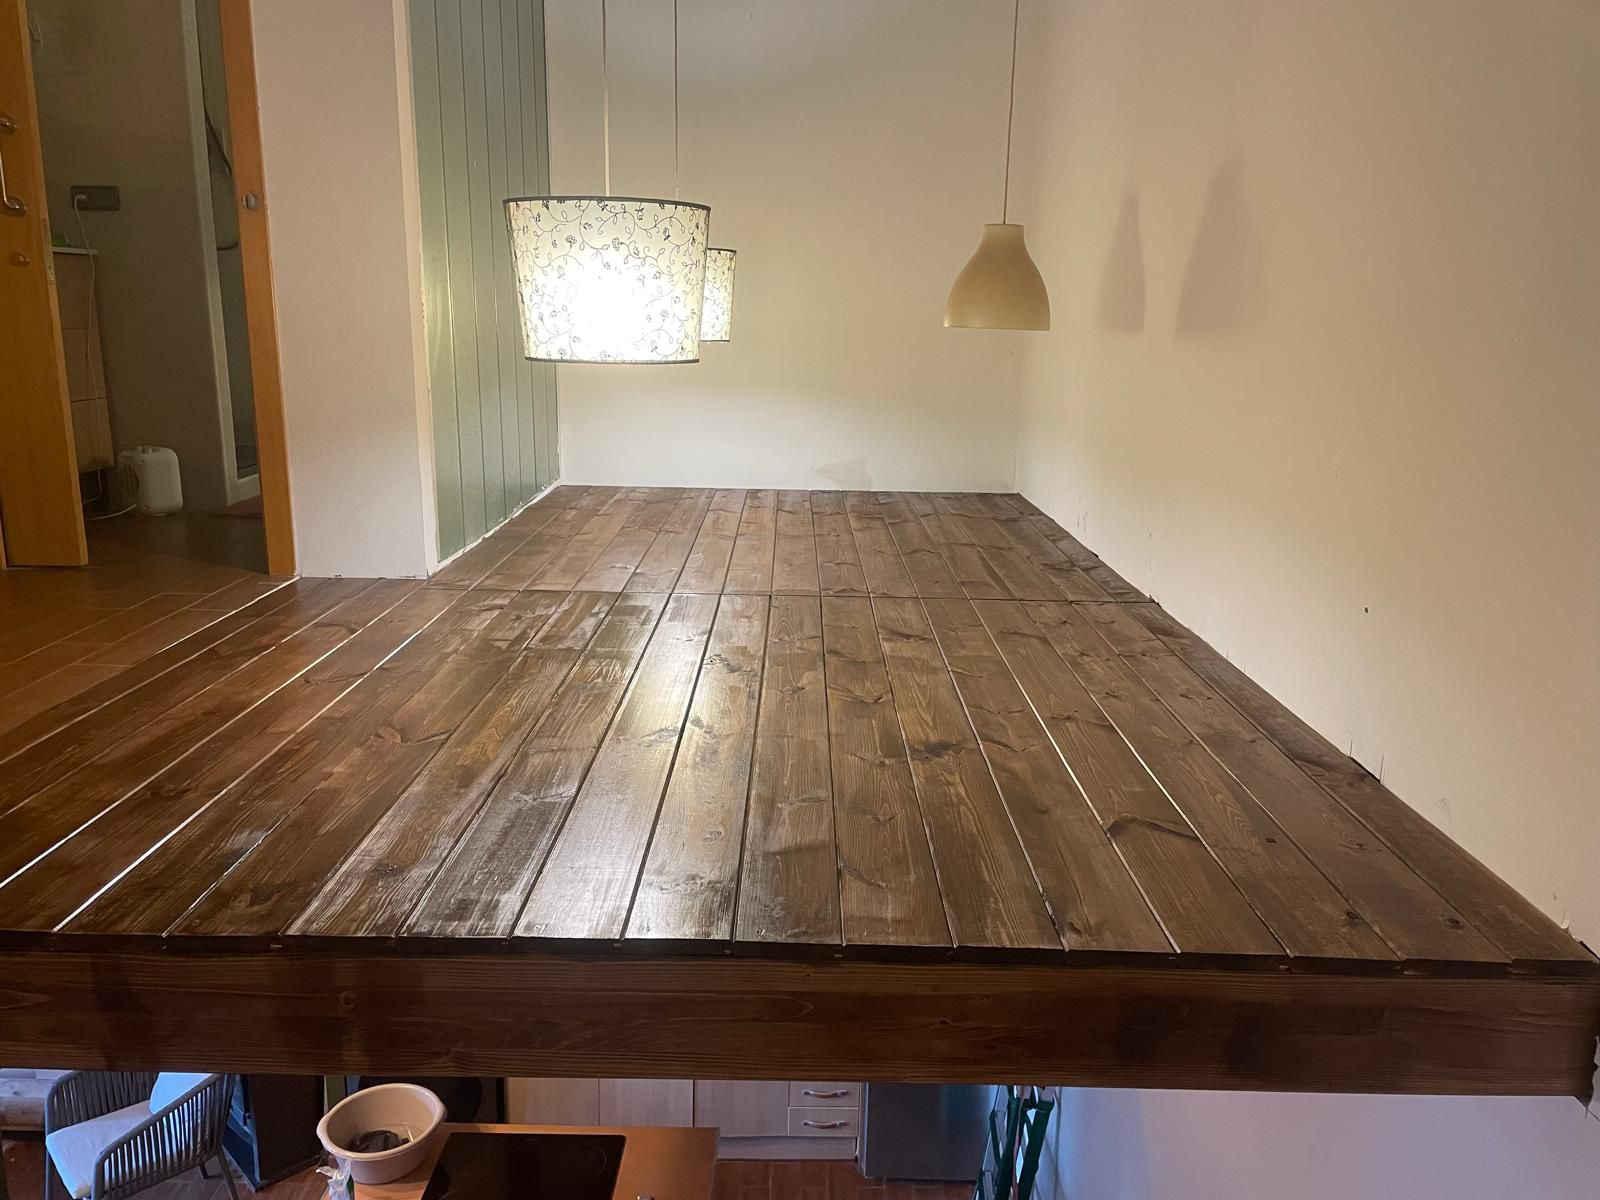
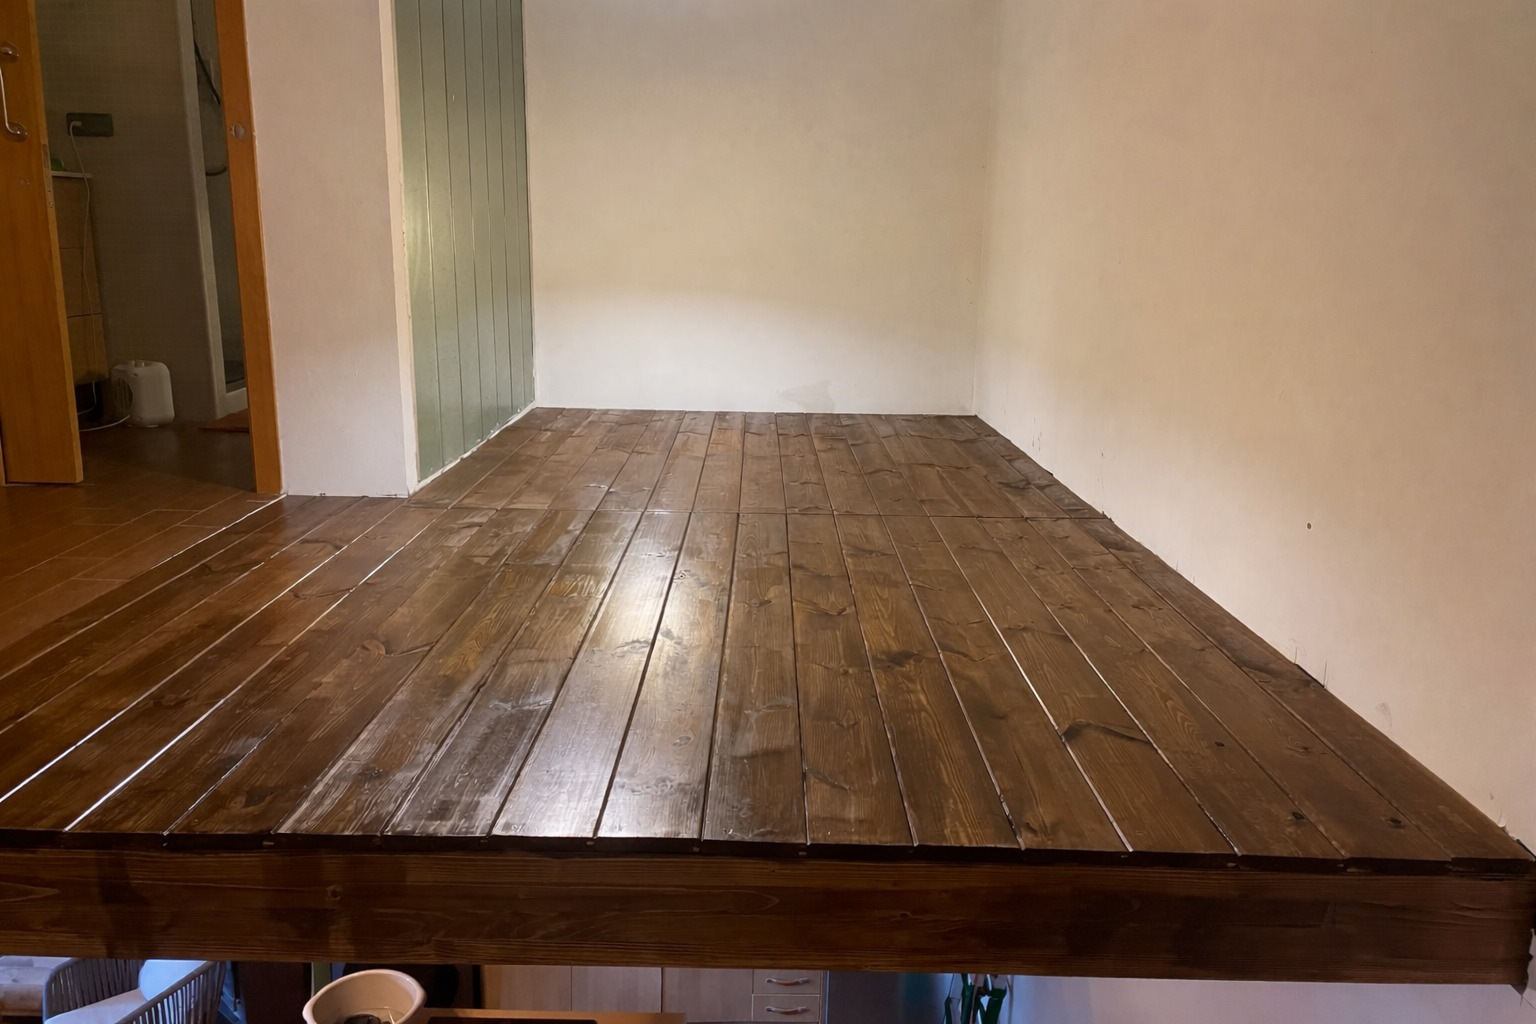
Actualizó fotos de gallery: altillo sin lámparas y portón corredizo
- Reemplazó foto del altillo de madera por versión sin lámparas
- Agregó imagen de portón corredizo en lugar del video de proceso
- Actualizó traducciones en 5 idiomas para el nuevo item

diff --git a/src/i18n/translations.ts b/src/i18n/translations.ts
@@ -57,8 +57,8 @@ export const translations: Record<Language, Record<string, string>> = {
     "gallery.4.alt": "Pérgola de madera exterior instalada en Altea",
     "gallery.5": "Taller",
     "gallery.5.alt": "Taller de carpintería artesanal Entre Vetas en Altea",
-    "gallery.6": "Proceso",
-    "gallery.6.alt": "Proceso de fabricación de carpintería a medida",
+    "gallery.6": "Portón corredizo",
+    "gallery.6.alt": "Portón corredizo de madera a medida",
 
     // Process
     "process.label": "Cómo trabajamos",
@@ -123,8 +123,8 @@ export const translations: Record<Language, Record<string, string>> = {
     "gallery.4.alt": "Outdoor wooden pergola installed in Altea",
     "gallery.5": "Workshop",
     "gallery.5.alt": "Entre Vetas artisan carpentry workshop in Altea",
-    "gallery.6": "Process",
-    "gallery.6.alt": "Custom carpentry fabrication process",
+    "gallery.6": "Sliding gate",
+    "gallery.6.alt": "Custom wooden sliding gate",
     "process.label": "How we work",
     "process.title.1": "How we work",
     "process.1.title": "Contact via WhatsApp",
@@ -183,8 +183,8 @@ export const translations: Record<Language, Record<string, string>> = {
     "gallery.4.alt": "Holzpergola im Außenbereich in Altea installiert",
     "gallery.5": "Werkstatt",
     "gallery.5.alt": "Handwerkliche Schreinerwerkstatt Entre Vetas in Altea",
-    "gallery.6": "Prozess",
-    "gallery.6.alt": "Fertigungsprozess maßgefertigter Tischlerei",
+    "gallery.6": "Schiebetor",
+    "gallery.6.alt": "Maßgefertigtes Schiebetor aus Holz",
     "process.label": "So arbeiten wir",
     "process.title.1": "So arbeiten wir",
     "process.1.title": "Kontakt über WhatsApp",
@@ -243,8 +243,8 @@ export const translations: Record<Language, Record<string, string>> = {
     "gallery.4.alt": "Houten pergola buitenshuis geïnstalleerd in Altea",
     "gallery.5": "Werkplaats",
     "gallery.5.alt": "Ambachtelijke timmerswerkplaats Entre Vetas in Altea",
-    "gallery.6": "Proces",
-    "gallery.6.alt": "Fabricageproces van timmerwerk op maat",
+    "gallery.6": "Schuifpoort",
+    "gallery.6.alt": "Op maat gemaakte houten schuifpoort",
     "process.label": "Hoe wij werken",
     "process.title.1": "Hoe wij werken",
     "process.1.title": "Contact via WhatsApp",
@@ -303,8 +303,8 @@ export const translations: Record<Language, Record<string, string>> = {
     "gallery.4.alt": "Pergola en bois extérieure installée à Altea",
     "gallery.5": "Atelier",
     "gallery.5.alt": "Atelier de menuiserie artisanale Entre Vetas à Altea",
-    "gallery.6": "Processus",
-    "gallery.6.alt": "Processus de fabrication de menuiserie sur mesure",
+    "gallery.6": "Portail coulissant",
+    "gallery.6.alt": "Portail coulissant en bois sur mesure",
     "process.label": "Comment nous travaillons",
     "process.title.1": "Comment nous travaillons",
     "process.1.title": "Contact via WhatsApp",

diff --git a/src/components/Gallery.tsx b/src/components/Gallery.tsx
@@ -6,6 +6,7 @@ import gallery2 from "@/assets/gallery-2.jpg";
 import galleryPergola from "@/assets/gallery-pergola.jpg";
 import video1 from "@/assets/video-1.mp4";
 import video2 from "@/assets/video-2.mp4";
+import galleryPorton from "@/assets/gallery-porton.jpg";
 import galleryBg from "@/assets/gallery-bg.mp4";
 
 type GalleryItem =
@@ -55,8 +56,9 @@ const Gallery = () => {
       className: "md:col-span-2",
     },
     {
-      type: "video",
-      src: video2,
+      type: "image",
+      src: galleryPorton,
+      alt: "Portón corredizo de madera",
       labelKey: "gallery.6",
       altKey: "gallery.6.alt",
       className: "",
@@ -133,7 +135,7 @@ const Gallery = () => {
                   src={project.src}
                   alt={t(project.altKey)}
                   loading="lazy"
-                  className="w-full h-full object-cover transition-all duration-[1.4s] ease-[cubic-bezier(0.22,1,0.36,1)] group-hover:scale-105"
+                  className="w-full h-full object-cover object-center transition-all duration-[1.4s] ease-[cubic-bezier(0.22,1,0.36,1)] group-hover:scale-105"
                 />
               ) : (
                 <video
@@ -143,7 +145,7 @@ const Gallery = () => {
                   playsInline
                   autoPlay
                   aria-label={t(project.altKey)}
-                  className="w-full h-full object-cover transition-all duration-[1.4s] ease-[cubic-bezier(0.22,1,0.36,1)] group-hover:scale-105"
+                  className="w-full h-full object-cover object-center transition-all duration-[1.4s] ease-[cubic-bezier(0.22,1,0.36,1)] group-hover:scale-105"
                 />
               )}
 
